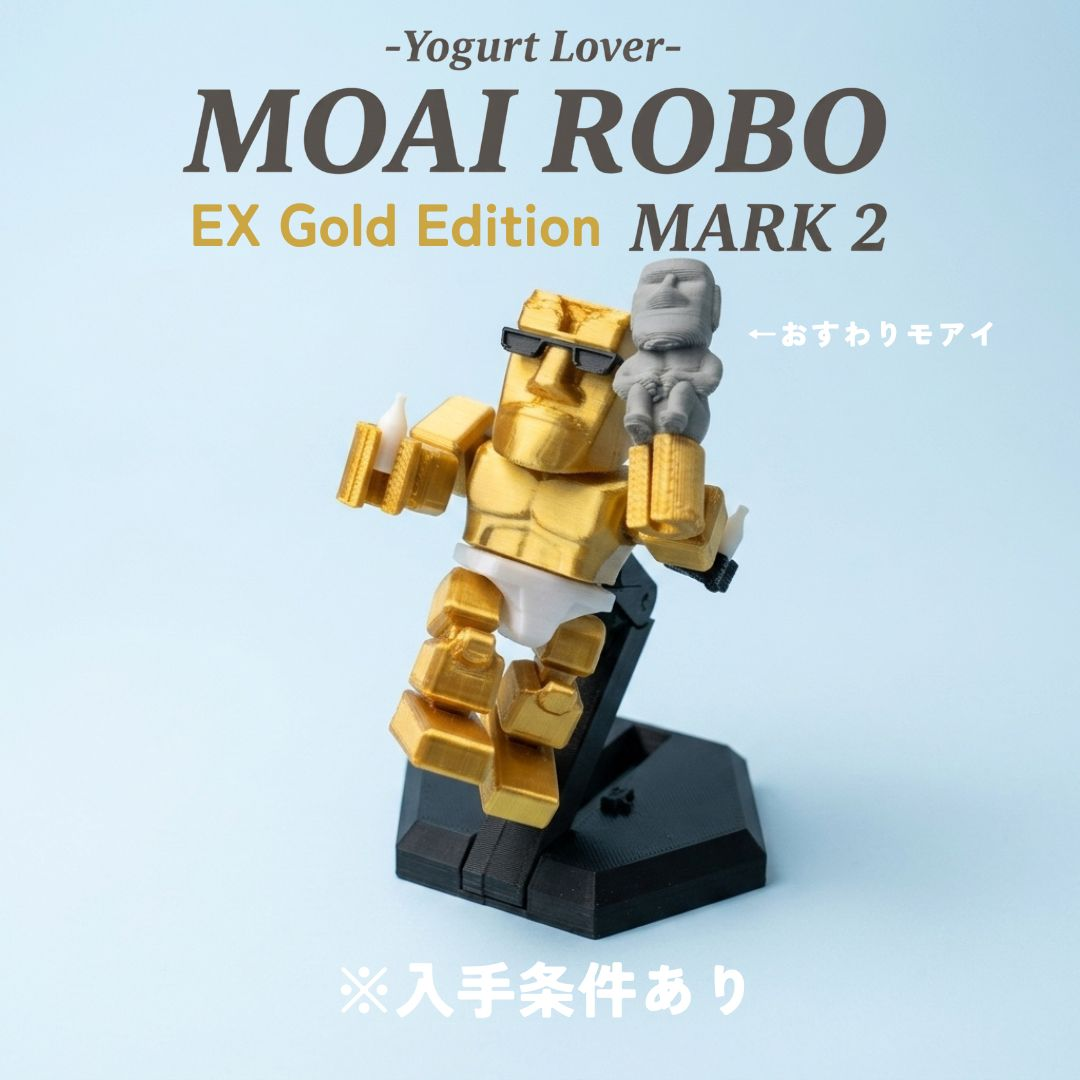
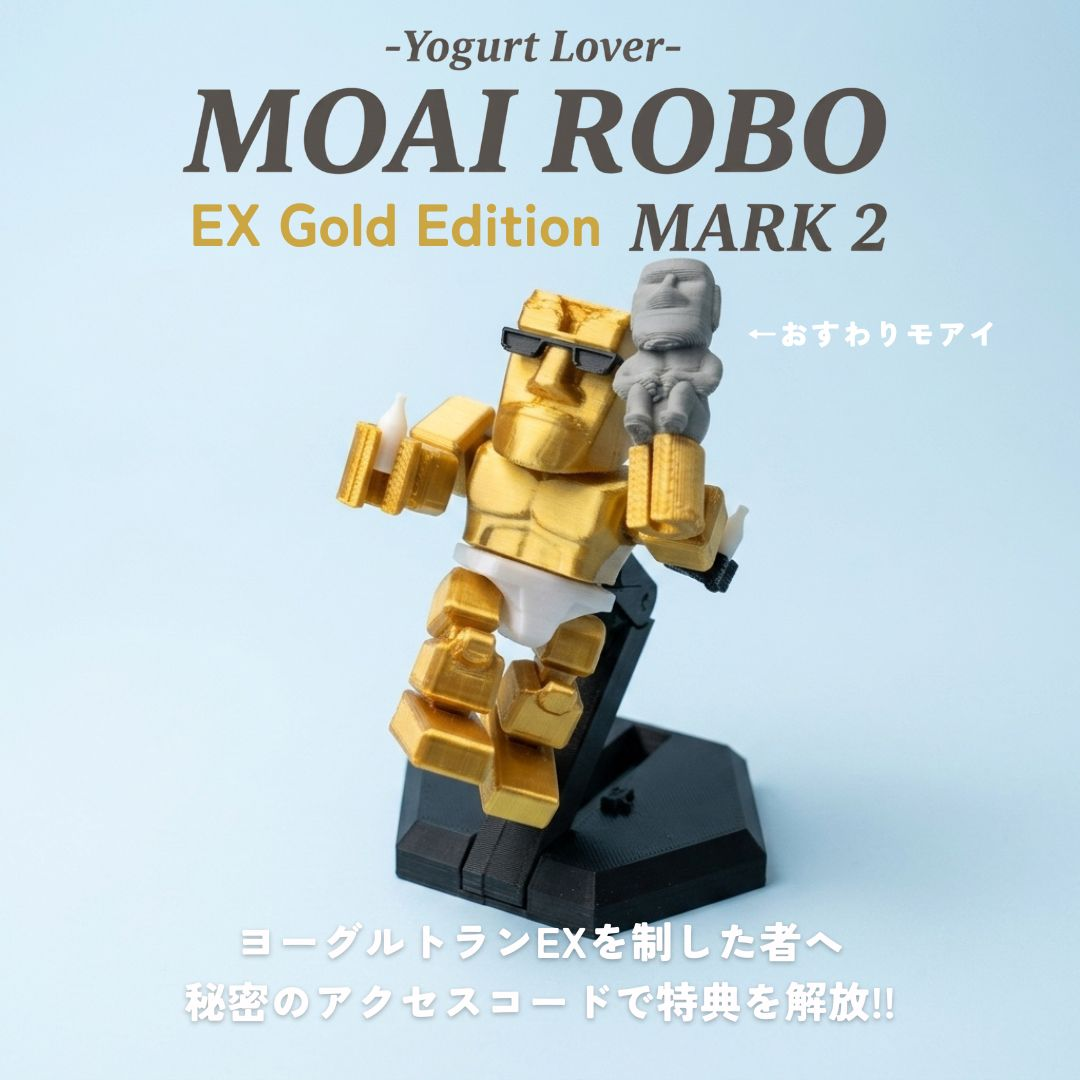
Update Gold Moai Robo image and append cache buster in data.js

Changed region(s): [[0.1528, 0.8556, 0.825, 0.9472]]

diff --git a/data.js b/data.js
@@ -67,9 +67,9 @@ const MASTER_PRODUCTS = [
     desc:  'ブルー・グレー・ピンクの3体セット。'
   },
   {
-    image: 'images/kurima/moai_robo_mk2_gold.jpg',
+    image: 'images/kurima/moai_robo_mk2_gold.jpg?v=20260520',
     images: [
-      'images/kurima/moai_robo_mk2_gold.jpg',
+      'images/kurima/moai_robo_mk2_gold.jpg?v=20260520',
       'images/kurima/moai_robo_mk2_gold/moai_robo_mk2_gold_01.png',
       'images/kurima/moai_robo_mk2_gold/moai_robo_mk2_gold_02.png',
       'images/kurima/moai_robo_mk2_gold/moai_robo_mk2_gold_03.png',